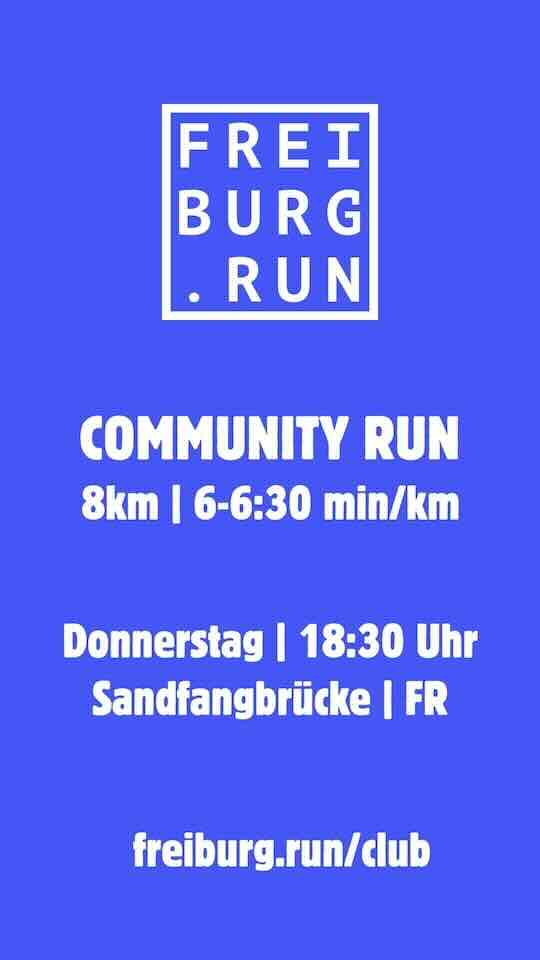
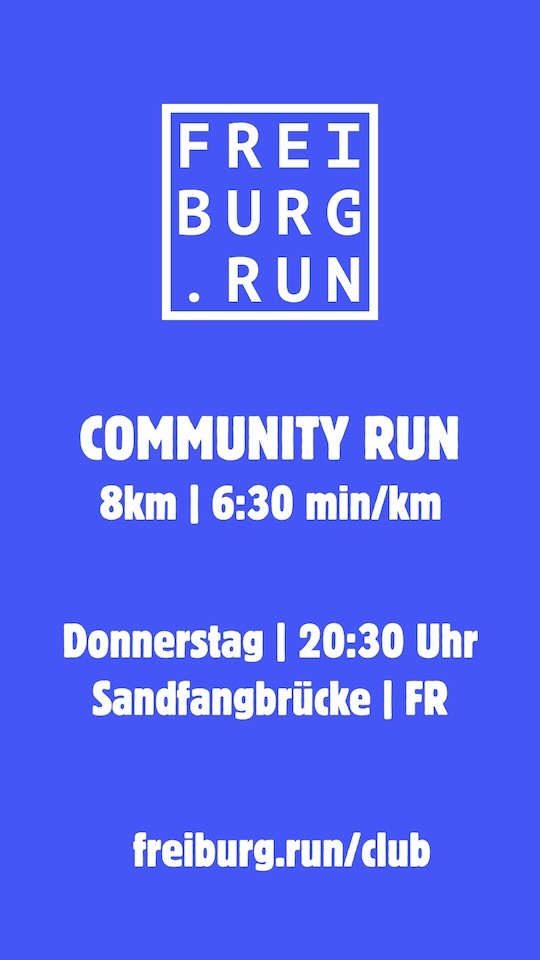
update

diff --git a/templates/club.html b/templates/club.html
@@ -23,27 +23,23 @@
             <h2 class="subtitle">Die nächsten Lauf-Termine</h2>
             <div class="content">
                 <ul>
-                    <li>02.07.2026 / <b>20:30 Uhr</b> (verschoben wegen der Hitze!), Sandfangbrücke: <b>Community Run 8km</b></li>
-                    <li>09.07.2026 / <b>20:30 Uhr</b> (verschoben wegen der Hitze!), Sandfangbrücke: <b>Community Run 8km</b></li>
-                    <li>16.07.2026 / <b>20:30 Uhr</b> (verschoben wegen der Hitze!), Sandfangbrücke: <b>Community Run 8km</b></li>
-                    <li>23.07.2026 / <b>20:30 Uhr</b> (verschoben wegen der Hitze!), Sandfangbrücke: <b>Community Run 8km</b></li>
+                    <li>Montag, 20:30 Uhr, Sandfangbrücke: <b>Late Night Run Club</b>, 10km</li>
+                    <li>Donnerstag, 20:30 Uhr, Sandfangbrücke: <b>Community Run</b>, 8km</li>
                 </ul>
             </div>
         </div>
    
         <div class="box">
-            <h2 class="subtitle">Community Run 8km</h2>
+            <h2 class="subtitle">Community Run, 8km</h2>
 
             <div class="columns">
                 <div class="column">
                     <table class="table">
-                        <tr><td><b>Wann?</b></td><td>Donnerstag, 18:30 Uhr (im Sommer: 20:30 Uhr)</td></tr>
+                        <tr><td><b>Wann?</b></td><td>Donnerstag, 20:30 Uhr</td></tr>
                         <tr><td><b>Treffpunkt?</b></td><td>Sandfangbrücke an der Dreisam (<a href="https://maps.app.goo.gl/uWuFAWQL9YSi6MMc8" target="_blank">Google Maps</a>)</td></tr>
-                        <tr><td><b>Aktuelle Strecke</b></td><td>Waldsee, Littenweiler, Dreisam, ca. 8km, 100hm, Straßen, Waldwege (<a href="https://www.komoot.com/de-de/tour/2520166594" target="_blank">Strecke bei Komoot</a>, <a href="https://bkrtr.de/Dw7XW" target="_blank">Strecke bei Bikerouter</a>)</td></tr>
-                        <tr><td>Alternative Strecke</td><td>St. Ottilien + Hirzberg, ca. 8km, 200hm, Waldwege & Trails (<a href="https://www.komoot.com/de-de/tour/2488345131" target="_blank">Strecke bei Komoot</a>)</td></tr>
-                        <tr><td></td><td>Je nach Nachfrage kann es in Zukunft auch weitere Strecken geben.</td></tr>
-                        <tr><td><b>Voraussetzungen?</b></td><td>Jeder ist willkommen mitzulaufen; gute Grundlagenausdauer (10km, 6min/km) wird vorausgesetzt.</td></tr>
-                        <tr><td><b>Nach dem Lauf</b></td><td>Wir kehren nach dem Lauf in der <a href="https://ft1844-freiburg.de/hotel-gastronomie" target="_blank">HOKK-Sportgaststätte bzw. HOKK-Kiosk</a> oder auf eine Pizza im <a href="https://www.colosseo-freiburg.de/" target="_blank">Colosseo</a> ein.</td></tr>
+                        <tr><td><b>Strecke</b></td><td>Waldsee, Littenweiler, Dreisam, ca. 8km, 100hm, Straßen, Waldwege (<a href="https://www.komoot.com/de-de/tour/2520166594" target="_blank">Strecke bei Komoot</a>, <a href="https://bkrtr.de/Dw7XW" target="_blank">Strecke bei Bikerouter</a>)</td></tr>
+                        <tr><td><b>Pace</b></td><td>ca. 6:30 min/km</td></tr>
+                        <tr><td><b>Voraussetzungen?</b></td><td>Jeder ist willkommen mitzulaufen; gute Grundlagenausdauer (10km, 6:30min/km) wird vorausgesetzt; bei Dunkelheit Stirnlampe mitbringen.</td></tr>
                         <tr><td><b>Kontakt</b></td><td>Bei Fragen gerne per Mail <a href="mailto:{{Config.Contact.Email}}">{{Config.Contact.Email}}</a> oder über das <a href="{{Config.Contact.FeedbackForm}}" target="_blank">Kontaktformular</a> melden.</td></tr>
                     </table>
                 </div>
@@ -54,7 +50,22 @@
                 </div>
             </div>
 
-            <div id="event-map" data-geo="47.991659,7.879987" data-track="sk|cHm`bo@NILAHCDb@Fh@BNBLf@pAn@~Ad@lALv@Rt@Bx@@bAAx@?dD@vCA|@?Z@J?BJAr@KTEbAQDAd@LTHXTrBt@f@NF@fA`@XLBFVRNN`@^DHBJ@NGjA?@?ALJh@j@p@xAVVRRh@X@IVw@CKLN@?x@^BBNFP_BBYXwCD_@JFHFTDJ@R@R@B?PAHCFCJJx@Kd@a@v@gAx@yAfA}@VUN]fAw@FWBG^J\Hp@?p@E@?n@K`@OGa@_@{@c@w@Mg@?eAHc@@CCgA?cBKiBj@iBDOp@cCRs@nAkEd@a@YI`@_@@Y@c@BaAN?@oBBKCJFeB?wA?kBPwAToACUEK`@kAZiATcAZaBNqA@]h@kKX{GBm@Bc@Fm@RqA@K@w@G{AEoAAcAEaEA{@?SB_@BWBSZwABW@UIWPO[c@^w@]e@{ByC[k@E@KE_@Q_@QFUQF[Kc@IMEECKC_@KxAiKD]hC}Ql@oEVwBXyCRgDH{AA[I@E@i@h@wAvA_@Gi@vFAPC?CAKECaA@SNwAAKc@a@GKc@i@iAwAzEeRn@kCf@mBp@yBMIg@_@AAGEIJS`AGTIRQb@M`@Ih@Ef@wChLyC~K_@tAKZGPAH]bAi@rAqAtC}AnC[h@o@jAy@tAq@jAcBlC_@j@s@z@aA|@_Ap@SLcBdAIJEBWAG?UZoB|AGFKD?QOHYh@UZWVOJeAp@QPILMXE^KhAEZMb@s@pA{@tCIZe@~AiAhD]rAD\?LEP[l@ENKVQt@Kv@KdBO|DEVo@`AMTIXOn@Ev@?`@?VDtAAt@U`Bi@pBE`@CdAAtCCl@CXQbAE`@ALEr@AhA@h@?j@Gp@QtC@x@Dr@?d@GvAAlAA~@DbBN~B?^AP?FEd@Bf@@^?@@B?D?ZFCFC" data-name="Treffpunkt/Sandfangbrücke"></div>
+            <div class="event-map" data-geo="47.991659,7.879987" data-track="sk|cHm`bo@NILAHCDb@Fh@BNBLf@pAn@~Ad@lALv@Rt@Bx@@bAAx@?dD@vCA|@?Z@J?BJAr@KTEbAQDAd@LTHXTrBt@f@NF@fA`@XLBFVRNN`@^DHBJ@NGjA?@?ALJh@j@p@xAVVRRh@X@IVw@CKLN@?x@^BBNFP_BBYXwCD_@JFHFTDJ@R@R@B?PAHCFCJJx@Kd@a@v@gAx@yAfA}@VUN]fAw@FWBG^J\Hp@?p@E@?n@K`@OGa@_@{@c@w@Mg@?eAHc@@CCgA?cBKiBj@iBDOp@cCRs@nAkEd@a@YI`@_@@Y@c@BaAN?@oBBKCJFeB?wA?kBPwAToACUEK`@kAZiATcAZaBNqA@]h@kKX{GBm@Bc@Fm@RqA@K@w@G{AEoAAcAEaEA{@?SB_@BWBSZwABW@UIWPO[c@^w@]e@{ByC[k@E@KE_@Q_@QFUQF[Kc@IMEECKC_@KxAiKD]hC}Ql@oEVwBXyCRgDH{AA[I@E@i@h@wAvA_@Gi@vFAPC?CAKECaA@SNwAAKc@a@GKc@i@iAwAzEeRn@kCf@mBp@yBMIg@_@AAGEIJS`AGTIRQb@M`@Ih@Ef@wChLyC~K_@tAKZGPAH]bAi@rAqAtC}AnC[h@o@jAy@tAq@jAcBlC_@j@s@z@aA|@_Ap@SLcBdAIJEBWAG?UZoB|AGFKD?QOHYh@UZWVOJeAp@QPILMXE^KhAEZMb@s@pA{@tCIZe@~AiAhD]rAD\?LEP[l@ENKVQt@Kv@KdBO|DEVo@`AMTIXOn@Ev@?`@?VDtAAt@U`Bi@pBE`@CdAAtCCl@CXQbAE`@ALEr@AhA@h@?j@Gp@QtC@x@Dr@?d@GvAAlAA~@DbBN~B?^AP?FEd@Bf@@^?@@B?D?ZFCFC" data-name="Treffpunkt/Sandfangbrücke"></div>
+        </div>
+
+        <div class="box">
+            <h2 class="subtitle">Late Night Run Club, 10km</h2>
+
+            <table class="table">
+                <tr><td><b>Wann?</b></td><td>Montag, 20:30 Uhr</td></tr>
+                <tr><td><b>Treffpunkt?</b></td><td>Sandfangbrücke an der Dreisam (<a href="https://maps.app.goo.gl/uWuFAWQL9YSi6MMc8" target="_blank">Google Maps</a>)</td></tr>
+                <tr><td><b>Strecke</b></td><td>St. Ottilien, ca. 10km, 200hm, Straßen, Waldwege</td></tr>
+                <tr><td><b>Pace</b></td><td>ca. 6:30 min/km</td></tr>
+                <tr><td><b>Voraussetzungen?</b></td><td>Jeder ist willkommen mitzulaufen; gute Grundlagenausdauer (10km, 6:30min/km) wird vorausgesetzt; bei Dunkelheit Stirnlampe mitbringen.</td></tr>
+                <tr><td><b>Kontakt</b></td><td>Bei Fragen gerne per Mail <a href="mailto:{{Config.Contact.Email}}">{{Config.Contact.Email}}</a> oder über das <a href="{{Config.Contact.FeedbackForm}}" target="_blank">Kontaktformular</a> melden.</td></tr>
+            </table>
+            
+            <div class="event-map" data-geo="47.991659,7.879987" data-track="sl|cHcabo@EkADe@@w@OaCEcBBmCFuAIsCXgE@aDDaA\}BFiGFa@h@sBR_BBw@GkBF{AXgAJUp@aADYL{DE]Mi@Ck@Qk@Ua@cAhB{@bAQNSHuAfAe@h@[r@SZ}@d@ELKIk@n@]RA@G`@DfAJ|@`@hBb@tAh@lFL~CSx@a@NeA?k@Ti@|EW`@k@PoABeAKS?KLQv@Sl@YRm@P]BaCIoAJ@\Lr@b@jB@XCX}@nCCR@VFPJHp@PTVHb@Dp@GvADNlBh@^z@Bp@KnB[lCJh@VZbB|@n@p@BX?b@Ch@e@z@_@\_Bd@a@\Uj@Eh@F`A^rBi@iAMcAC_AFaAN[\g@Xy@Dm@G{@]k@{Au@Qa@@wCc@{Ae@w@eAI_@]Ia@GcDa@_Ao@i@Oa@Ce@PoEUoAYu@eB}AQe@AAEu@AkAJ{ANi@V]b@Un@c@j@u@\wABc@Ii@MUc@Qw@CkBwAs@y@I]@_@^kABw@Is@m@gBu@{@Sg@IuAOc@Yg@e@WyAKiAAOG_@oAW]SU_Aw@_Ao@OUk@k@I_@FSPQtAs@rAy@Za@T}@I{AYeDWgBgAeDi@sDQUYG_@F_@CGQCc@?_@C_@EOc@_@EKAWFUf@i@f@[jC@TKJYBa@Eg@WiA?UBK@ANGTBr@t@\Jf@CtBLPL|AdDF`@@v@\z@`AhB`AfBTHb@@LLB^CfCJz@T|@`@hA^d@^R~@Vj@Vb@f@`@r@hAjAlA`ATBPC|@{ATMz@Kp@c@J?HDBNANKLmAf@[\M\Gf@Mj@[d@[Ha@?g@E]Ie@Qc@Um@w@G@EF?NJPjCjBp@TvAZ`@@^GPQf@sAPGT@vAb@v@Fl@Rn@FPELM^y@LKHCF@DHATGN]`@k@|@OHS@_AEgA?s@DOFc@`@g@j@u@h@WHu@BKDIP@NJL`@Ln@HZC`AQVALB`@L|BjANPt@lBv@jB^fALr@H|ALp@Vr@x@bBHR?ANzBH`CAbCG`BYnAo@bB?ZYdB@Ta@zD?dB~AJ|AJ^DA|@DbBN`CAv@Ed@DrA" data-name="Treffpunkt/Sandfangbrücke"></div>
         </div>
         
         <div class="box">

diff --git a/static/main.js b/static/main.js
@@ -978,13 +978,15 @@ const main = () => {
 
     }
 
-    const eventMap = document.querySelector("#event-map");
-    if (eventMap !== null) {
+    // iterate over all elements with class "event-map" and load a map for each
+    
+    document.querySelectorAll(".event-map").forEach(eventMap => {
+        console.log(eventMap);
         const geo = parseGeo(eventMap.dataset.geo);
         const track = parsePolyline(eventMap.dataset.track);
 
         if (geo !== null) {
-            const map = L.map('event-map', {gestureHandling: true}).setView(geo, 15);
+            const map = L.map(eventMap, {gestureHandling: true}).setView(geo, 15);
 
             L.tileLayer('https://tile.openstreetmap.org/{z}/{x}/{y}.png', {
                 attribution: '&copy; <a href="https://www.openstreetmap.org/copyright">OpenStreetMap</a> contributors'
@@ -998,7 +1000,7 @@ const main = () => {
                 map.fitBounds(polyline.getBounds());
             }   
         }
-    }
+    });
 
     // NAVBAR
     const burgersByTarget = new Map();

diff --git a/templates/event.html b/templates/event.html
@@ -146,7 +146,7 @@
             </table>
         </div>
         {{if .Event.Location.HasGeo}}
-        <div id="event-map" data-geo="{{.Event.Location.Geo}}" data-name="{{.Event.Name.Orig}}"></div>
+        <div class="event-map" data-geo="{{.Event.Location.Geo}}" data-name="{{.Event.Name.Orig}}"></div>
         {{end}}
     </div>
 </section>

diff --git a/static/style.css b/static/style.css
@@ -32,7 +32,7 @@ main {
 #map-container {
     margin-bottom: 1.5rem;
 }
-#event-map, #small-map  {
+.event-map, #small-map  {
     height: 400px;
     width: 100%;
 }
